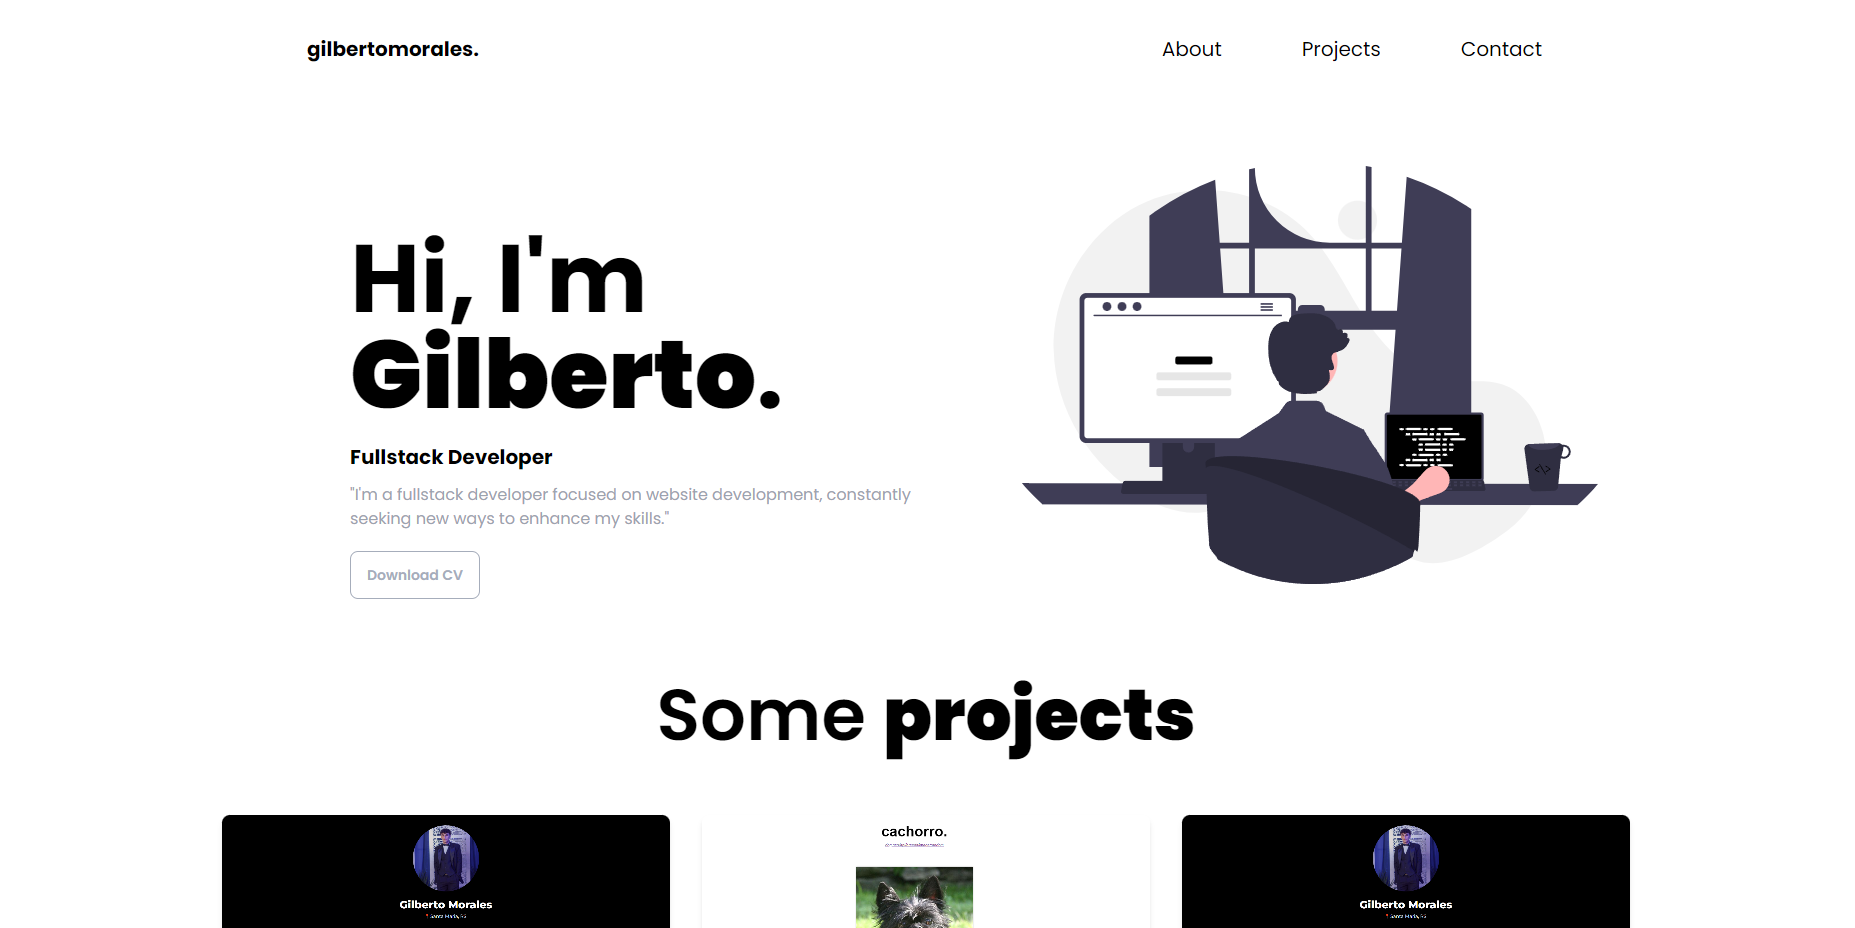
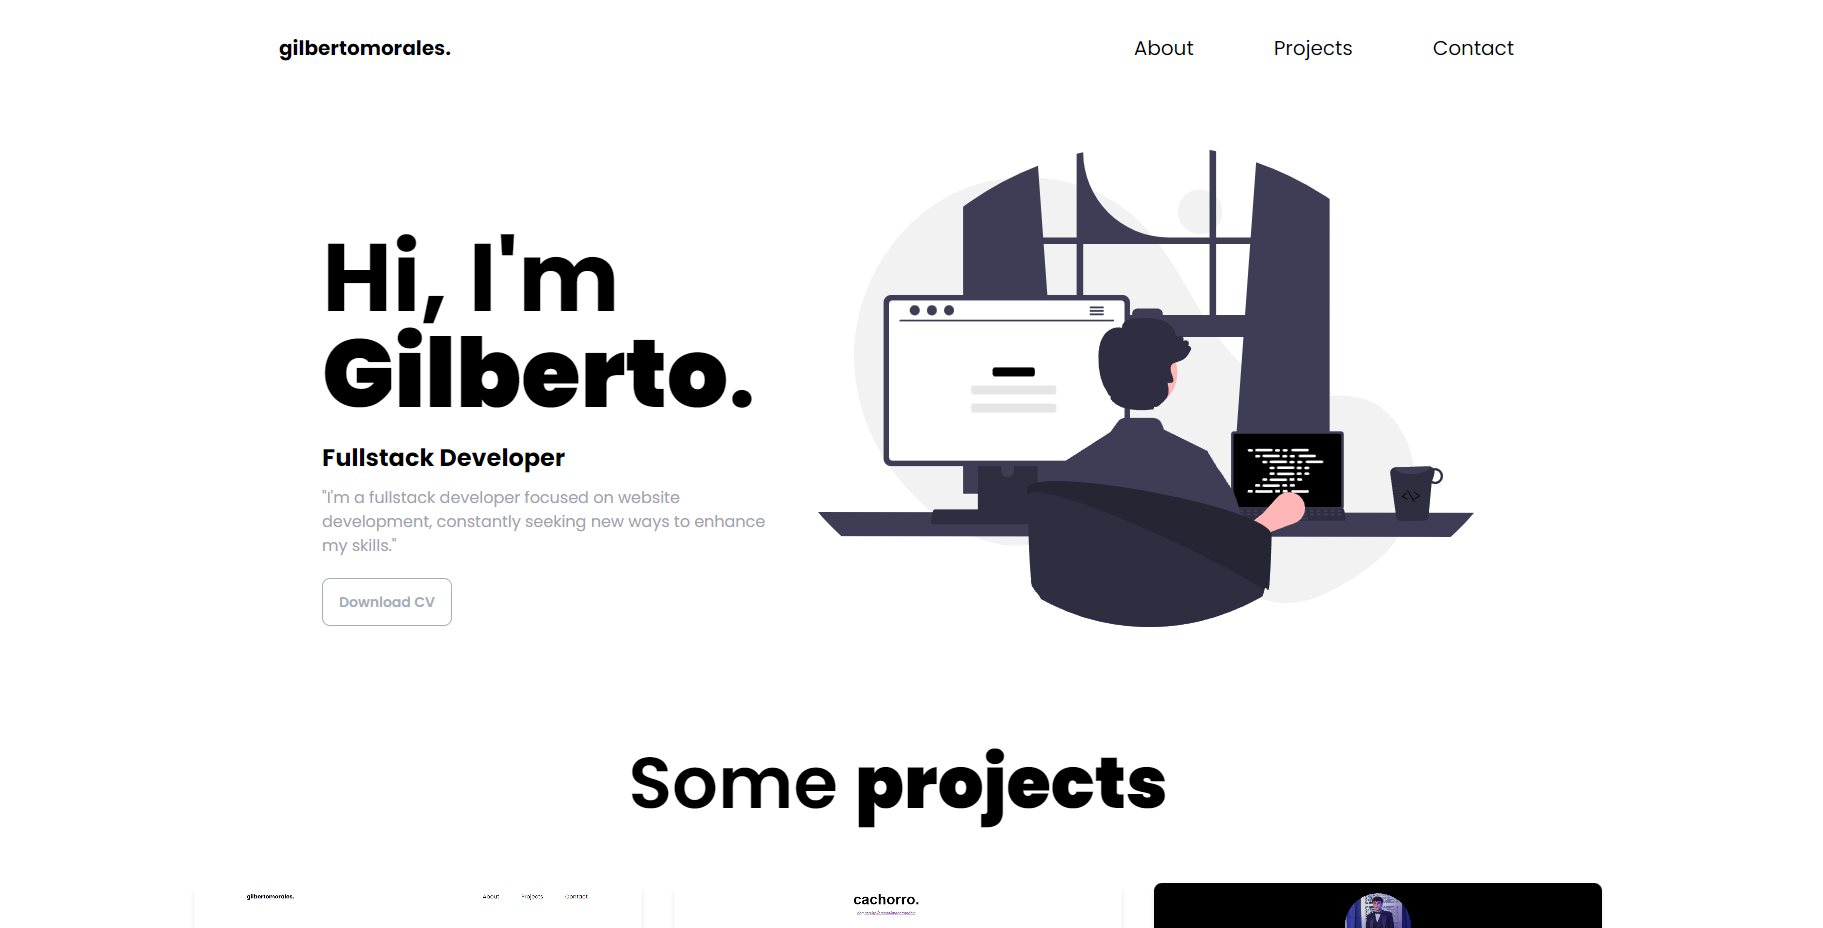
[FEAT] - Responsive Layout 2/2

diff --git a/src/app/components/Contact.jsx b/src/app/components/Contact.jsx
@@ -2,23 +2,23 @@ import React from 'react';
 
 const Contact = () => {
   return (
-    <div id="contato" className="contato flex justify-between items-center mx-auto max-w-6xl mt-12 mb-20">
+    <div id="contato" className="contato flex flex-col md:flex-row justify-between items-center mx-auto max-w-6xl mt-12 mb-20">
 
-      <div>
-        <img id="contato-img" src="assets/contact.svg" alt="contato" className="max-w-lg h-auto" />
+      <div className="md:mr-8">
+        <img id="contato-img" src="assets/contact.svg" alt="contato" className="w-64 md:w-auto h-auto" />
       </div>
 
-      <div className='mt-52 ml-24'>
+      <div className='mt-8 flex flex-col items-center md:items-start md:mt-40'>
 
-        <h1 className="text-7xl text-gray-950">Reach me <strong>here</strong>:</h1>
+        <h1 className="text-4xl md:text-7xl text-gray-950 mb-4">Reach me <strong>here</strong>:</h1>
 
-        <div className="flex mt-3 mb-5 gap-10">
-        <a href="mailto:eu@gilbertomorales.com">
-    <img src="assets/email.svg" alt="Email" className='max-w-24'/>
-  </a>
-  <a href="https://github.com/eumorales" target="_blank">
-    <img src="assets/github.svg" alt="Github" className='max-w-20 mt-2'/>
-  </a>
+        <div className="flex">
+          <a href="mailto:eu@gilbertomorales.com">
+            <img src="assets/email.svg" alt="Email" className='w-20 h-auto mr-4'/>
+          </a>
+          <a href="https://github.com/eumorales" target="_blank">
+            <img src="assets/github.svg" alt="Github" className='w-20 h-auto'/>
+          </a>
         </div>
       </div>
     </div>

diff --git a/src/app/components/About.jsx b/src/app/components/About.jsx
@@ -2,14 +2,15 @@ import React from 'react';
 
 const About = () => {
   return (
-    <div id="sobre" className="sobre flex flex-col md:flex-row justify-between items-center mx-auto max-w-6xl mt-12">
+    <div id="sobre" className="sobre flex flex-col md:flex-row justify-between items-center mx-auto max-w-6xl md:mt-12 mt-0">
       <div className="md:w-1/2 md:pr-8">
-        <h1 className="text-4xl md:text-8xl mt-20 font-bold text-black">Hi, I'm <strong>Gilberto</strong>.</h1>
+        <h1 className="text-6xl md:text-8xl mt-20 font-bold text-black">Hi, I'm <strong>Gilberto</strong>.</h1>
         <h4 className="text-xl mt-5 md:text-2xl text-black font-bold">Fullstack Developer</h4>
         <p className="descricao mt-3 text-gray-400">"I'm a fullstack developer focused on website development, constantly seeking new ways to enhance my skills."</p>
-        <button className="mt-5 btn btn-outline">Download CV</button>
+        <button className="mt-5 btn btn-outline">WIP</button> 
+        {/* Download CV */}
       </div>
-      <div className="md:w-1/2 mt-8 md:mt-0 order-first md:order-last">
+      <div className="md:w-2/3 mt-8 md:mt-0 order-first md:order-last">
         <img id="sobre-img" src="assets/sobre.svg" alt="Sobre" className="max-w-full h-auto" />
       </div>
     </div>

diff --git a/src/app/components/Projects.jsx b/src/app/components/Projects.jsx
@@ -3,7 +3,7 @@ import React from 'react';
 const Projects = () => {
   return (
     <div id="projetos" className="mt-10 py-20 px-4">
-      <h2 className="text-7xl text-black font-semibold mb-16 text-center">Some <b>projects</b></h2>
+      <h2 className="text-5xl md:text-7xl text-black font-semibold mb-16 text-center">Some <b>projects</b></h2>
 
       <div className="grid grid-cols-1 md:grid-cols-2 lg:grid-cols-3 gap-8">
       <ProjectCard
